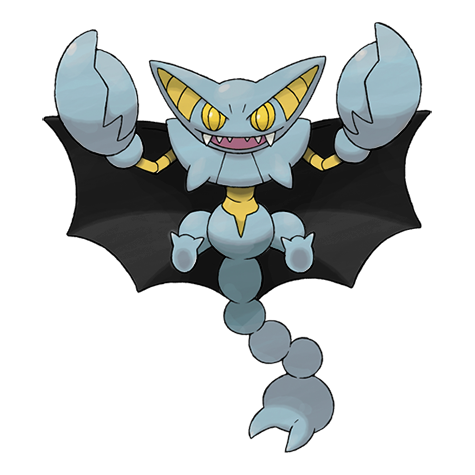
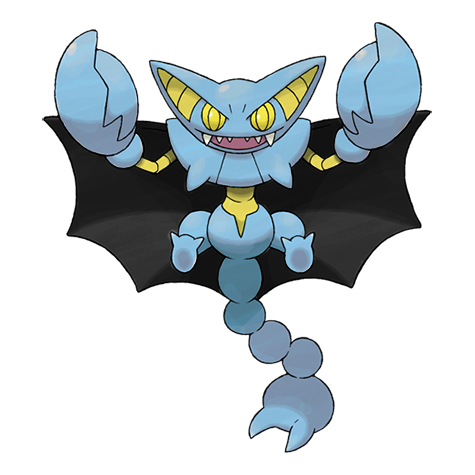
Update shinies

diff --git a/models.py b/models.py
@@ -557,11 +557,11 @@ class Species:
 
     @cached_property
     def image_url(self):
-        return f"https://assets.poketwo.net/images/{self.id}.png?v=2200"
+        return f"https://assets.poketwo.net/images/{self.id}.png?v=2300"
 
     @cached_property
     def shiny_image_url(self):
-        return f"https://assets.poketwo.net/shiny/{self.id}.png?v=2200"
+        return f"https://assets.poketwo.net/shiny/{self.id}.png?v=2300"
 
     @cached_property
     def correct_guesses(self):
